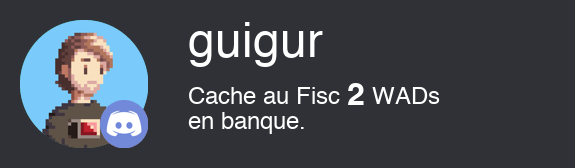
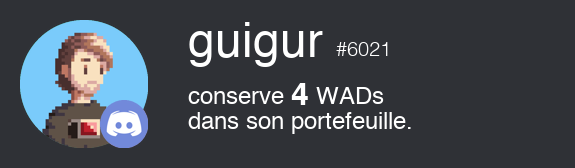
primitive shell

Changed region(s): [[0.3252, 0.4762, 0.7687, 0.625], [0.3252, 0.6548, 0.7096, 0.8036], [0.5617, 0.2381, 0.68, 0.3571]]

diff --git a/LongDuZbot/certif.py b/LongDuZbot/certif.py
@@ -108,18 +108,17 @@ def generateCertifBitch(profilePictureLink, pseudo, score):
 
 	return certif.save("tmp/certif_worst_filled.png")
 
-
-
-def generateMoneyCard(profilePictureLink, serverPictureLink, pseudo, money):
-	ownSynonyms = ["Possède", "Cache au Fisc", "A", "Détient", "Dispose", "Garde", "Conserve"]
-	bankSynonyms = ["en banque.", "dans son porte-feuilles.", "dans son porte-monnaie."]
+def generateMoneyCard(profilePictureLink, serverPictureLink, ctx, money):
+	ownSynonyms = ["possède", "cache au Fisc", "a", "détient", "dispose de", "garde", "conserve"]
+	bankSynonyms = ["en banque.", "dans son portefeuille.", "dans son porte-monnaie."]
 	profile = Image.open(profilePictureLink).convert("RGBA")
 	profile = profile.resize([128, 128])
 
 	server = Image.open(serverPictureLink).convert("RGBA")
 	server = server.resize([48, 48])
 
-	fontCardBig = ImageFont.truetype(r'font/Helvetica.ttf', 48) 
+	fontCardBig = ImageFont.truetype(r'font/Helvetica.ttf', 48)
+	fontCardIdentifier = ImageFont.truetype(r'font/Helvetica-Light.ttf', 20) 
 	fontCard = ImageFont.truetype(r'font/Helvetica.ttf', 24) 
 	fontCardAccent = ImageFont.truetype(r'font/Helvetica-Bold.ttf', 32) 
 
@@ -129,26 +128,33 @@ def generateMoneyCard(profilePictureLink, serverPictureLink, pseudo, money):
 	card.paste(profile, (20, 20, 20 + profile.size[0], 20 + profile.size[1]), profile)
 	genRoundImg(server)
 	card.paste(server, (100, 100, 100 + server.size[0], 100 + server.size[1]), server)
-	ligneOffset = [20, 85, 110]
+	ligneOffset = [20, 40, 85, 110]
 
 	draw = ImageDraw.Draw(card)
-	draw.text((188, ligneOffset[0]), text=pseudo, fill=(255,255,255,255), font=fontCardBig, anchor=None, spacing=0, align="left")
+
+	textName = ctx.author.name + " "
+	textNameW,textNameH = fontCardBig.getsize(textName)
+	draw.text((188, ligneOffset[0]), text=textName, fill=(255,255,255,255), font=fontCardBig, anchor=None, spacing=0, align="left")
+
+	textIdentifier = "#" + ctx.author.discriminator
+	textIdentifierW,textIdentifierH = fontCardIdentifier.getsize(textIdentifier)
+	draw.text((188 + textNameW, ligneOffset[1]), text=textIdentifier, fill=(255,255,255,127), font=fontCardIdentifier, anchor=None, spacing=0, align="left")
 
 	textOwn = secure_random.choice(ownSynonyms) + " "
 	textOwnW,textOwnH = fontCard.getsize(textOwn)
-	draw.text((188, ligneOffset[1]), text=textOwn, fill=(255,255,255,255), font=fontCard, anchor=None, spacing=0, align="left")
+	draw.text((188, ligneOffset[2]), text=textOwn, fill=(255,255,255,255), font=fontCard, anchor=None, spacing=0, align="left")
 
 	textNumber = str(money)
 	textNumberW,textNumberH = fontCardAccent.getsize(textNumber)
-	draw.text((188 + textOwnW, ligneOffset[1] - 5), text=textNumber, fill=(255,255,255,255), font=fontCardAccent, anchor=None, spacing=0, align="left")
+	draw.text((188 + textOwnW, ligneOffset[2] - 5), text=textNumber, fill=(255,255,255,255), font=fontCardAccent, anchor=None, spacing=0, align="left")
 
 	textMoneyName = " WADs"
 	textMoneyNameW,textMoneyNameH = fontCard.getsize(textMoneyName)
-	draw.text((188 + textOwnW + textNumberW, ligneOffset[1]), text=textMoneyName, fill=(255,255,255,255), font=fontCard, anchor=None, spacing=0, align="left")
+	draw.text((188 + textOwnW + textNumberW, ligneOffset[2]), text=textMoneyName, fill=(255,255,255,255), font=fontCard, anchor=None, spacing=0, align="left")
 
 	textInBank = secure_random.choice(bankSynonyms)
 	textInBankW,textInBankH = fontCard.getsize(textInBank)
-	draw.text((188, ligneOffset[2]), text=textInBank, fill=(255,255,255,255), font=fontCard, anchor=None, spacing=0, align="left")
+	draw.text((188, ligneOffset[3]), text=textInBank, fill=(255,255,255,255), font=fontCard, anchor=None, spacing=0, align="left")
 
 	#card.show()
 	return card.save("tmp/card_filled.png")

diff --git a/LongDuZbot/bot.py b/LongDuZbot/bot.py
@@ -3,12 +3,17 @@ import time
 import math
 import json
 import asyncio
+import threading
+
+from pyfiglet import Figlet #shelAscii
 
 import discord
 from discord.ext.commands import Bot
 
 import ggr_utilities
 import ggr_emotes
+
+import cmd, sys
 
 from dotenv import load_dotenv
 load_dotenv()
@@ -25,6 +30,34 @@ async def on_ready():
 	timeReady = time.time()
 	ggr_utilities.logger(None, "Logged in as " + bot.user.name + " " + str(bot.user.id))
 
+def bot_start():
+	bot.run(TOKEN)
+
+def shell_start():
+	Com().cmdloop()
+y = threading.Thread(target=bot_start)
+
+
+class Com(cmd.Cmd):
+	f = Figlet(font='slant')
+	intro = f.renderText("LongDuZbot") + "\nType help or ? to list commands.\n"
+	prompt = '> '
+	file = None
+
+	def do_stop(self, arg):
+		'Stop the server'
+		ggr_utilities.logger(None, "Stopping server")
+		y.stop()
+		sys.exit(0)
+
+	def do_restart(self, arg):
+		'Restart the server'
+		ggr_utilities.logger(None, "Restarting server")
+		os.execl(sys.executable, os.path.abspath(__file__), *sys.argv) 
+
+def parse(arg):
+	'Convert a series of zero or more numbers to an argument tuple'
+	return tuple(map(int, arg.split()))
 
 if __name__ == "__main__":
 	for extension in startup_extensions:
@@ -35,5 +68,8 @@ if __name__ == "__main__":
 			exc = '{}: {}'.format(type(e).__name__, e)
 			ggr_utilities.logger(None, "Failed to load extension " + extension + " \n" + exc)
 
+#x = threading.Thread(target=shell_start)
 
-bot.run(TOKEN)
+#x.start()
+y.start()
+shell_start()

diff --git a/LongDuZbot/eco.py b/LongDuZbot/eco.py
@@ -51,7 +51,7 @@ class Eco(commands.Cog):
 		
 		user = self.checkUserExist(ctx.author)
 		userImg, guildImg = ggr_utilities.userServerIcon(ctx) 
-		card = certif.generateMoneyCard(userImg, guildImg, user["name"], user["balance"])
+		card = certif.generateMoneyCard(userImg, guildImg, ctx, user["balance"])
 		await ctx.send(file=discord.File('tmp/card_filled.png'))
 		#await ctx.send("**" + user["name"] + "** possède **" + str(user['balance']) + "** WADs en banque.")
 

diff --git a/LongDuZbot/test.py b/LongDuZbot/test.py
@@ -1,5 +1,7 @@
 import discord
 from discord.ext import commands
+import sys
+import os
 import ggr_utilities
 import ggr_emotes
 import eco
@@ -11,7 +13,10 @@ class Test(commands.Cog):
 	@commands.command()
 	async def test(self, ctx):
 		"""Test"""
-		print("test")
+		print("restart")
+		os.execl(sys.executable, os.path.abspath(__file__), *sys.argv) 
+		#print("exit")
+		#sys.exit(0)
 		#await ctx.send("test")
 		#await ctx.send(ctx.author.name)
 	
